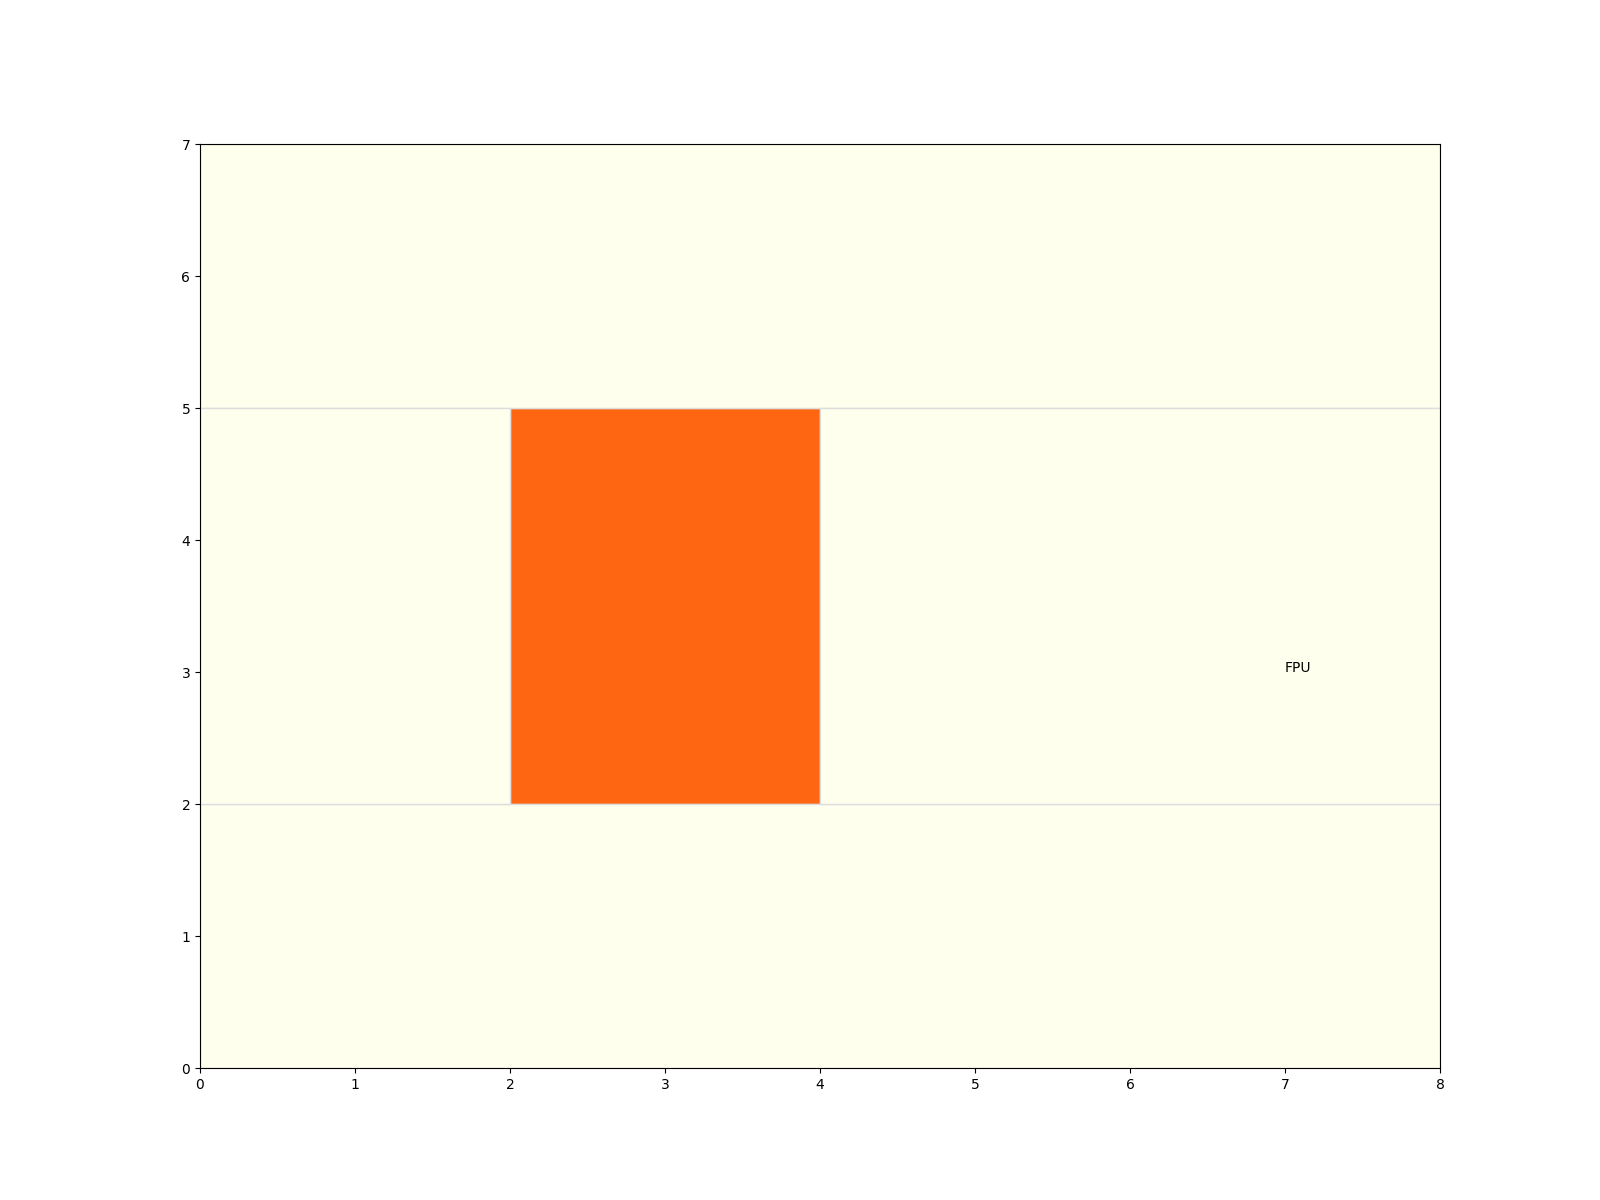
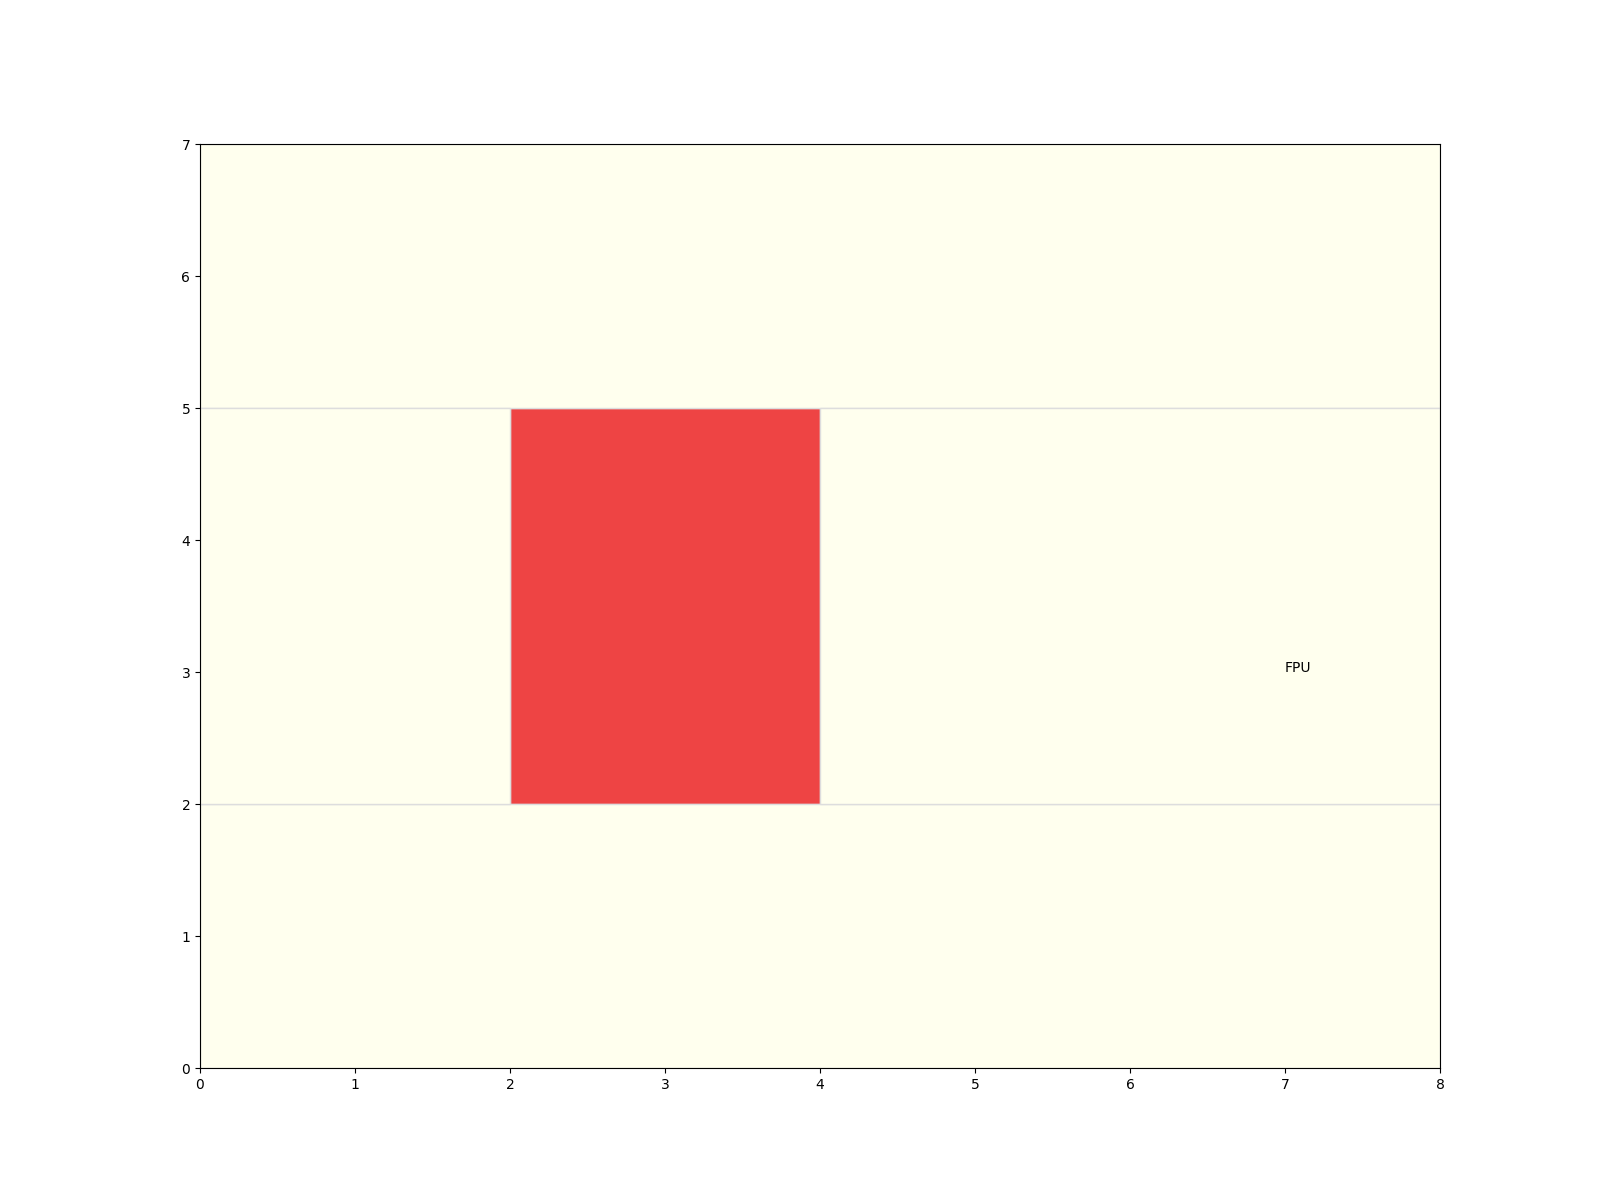
done step 1 of tile insertion

Changed region(s): [[0.3125, 0.3392, 0.5312, 0.6783]]

diff --git a/src/LFLegaliser.cpp b/src/LFLegaliser.cpp
@@ -309,8 +309,114 @@ void LFLegaliser::enumerateDirectAreaRProcess(Cord lowerleft, len_t width, len_t
 
 }
 
+bool LFLegaliser::insertTile(Tile &tile){
+    assert(!searchArea(tile.getLowerLeft(), tile.getWidth(), tile.getHeight()));
+
+    /* STEP 1) Find the space Tile containing the top edge of the aera to be occupied, process */
+    bool tileTouchesSky = (tile.getUpperRight().y == getCanvasHeight());
+    bool cleanTopCut = true;
+    Tile *origTop;
+    
+    if(!tileTouchesSky){
+        origTop = findPoint(tile.getUpperLeft());
+        cleanTopCut = (origTop->getLowerLeft().y == tile.getupperright().y);
+    } 
+    
+    if((!tileTouchesSky)&&(!cleanTopCut)){
+    
+        Tile *newDown = new Tile(tileType::BLANK, origTop->getLowerLeft(),origTop->getWidth(), (tile.getUpperLeft().y - origTop->getLowerLeft().y));
+        newDown->rt = origTop;
+        newDown->lb = origTop->lb;
+        newDown->bl = origTop->bl;
+
+        // manipulate neighbors around the split tiles
+
+        // change lower-neighbors' rt pointer to newly created tile
+        std::vector <Tile *> origDownNeighbors;
+        findDownNeighbors(origTop, origDownNeighbors);
+        for(Tile *t : origDownNeighbors){
+            if(t->rt == origTop){
+                t->rt = newDown;
+            }
+        }
+        
+        // change right neighbors to pointer their bl to the correct tile (one of the split)
+        std::vector <Tile *> origRightNeighbors;
+        findRightNeighbors(origTop, origRightNeighbors);
+        
+        bool rightModified = false;
+        for(int i = 0; i < origRightNeighbors.size(); ++i){
+            if(origRightNeighbors[i]->getLowerLeft().y < newDown->getUpperRight().y){
+                if(!rightModified){
+                    rightModified = true;
+                    newDown->tr = origRightNeighbors[i];
+                }
+                origRightNeighbors[i]->bl = newDown;
+                
+            }
+        }
+        assert(rightModified);
+
+        // change Left neighbors to point their tr to the correct tiles
+        std::vector <Tile *> origLeftNeighbors;
+        findLeftNeighbors(origTop, origLeftNeighbors);
+
+        bool leftModified = false;
+        for(int i = 0; i < origLeftNeighbors.size(); ++i){
+            if(origLeftNeighbors[i]->getUpperLeft().y > tile.getUpperLeft().y){
+                if(!leftModified){
+                    leftModified = true;
+                    origTop->bl = origLeftNeighbors[i];
+                }
+            }else{
+                origLeftNeighbors[i]->tr = newDown;
+            }
+        }
+        assert(leftModified);
+
+        origTop->setCord((origTop->getLowerLeft().x, tile.getUpperLeft().y));
+        origTop->setHeight = (origTop->getUpperLeft().y - tile.getUpperLeft().y)
+    }
+
+    /* STEP 2) Find the space Tile containing the bottom edge of the aera to be occupied, process */
+
+    bool tileTouchesGround = (tile.getLowerLeft().y == 0);
+    bool cleanBottomCut = true;
+    Tile *origBottom;
+    if(!tileTouchesGround){
+        origBottom = findPoint(tile.getLowerLeft() - Cord(0,1));
+        cleanBottomcut = (origBottom->getUpperRight().y == tile.getLowerLeft().y)
+    }
+
+    if((!tileTouchesGround) && (!cleanBottomCut)){
+        
+        tile *newUp = new Tile(tileType::BLANK, Cord(origBottom->getLowerLeft().x, tile.getLowerLeft().y)
+                                , origBottom->getWidth(), (origBottom->getUpperLeft().y - tile.getLowerLeft().y));         
+        
+        newUp->rt = origBottom->rt;
+        newUp->lb = origBottom;
+        newUp->tr = origBottom->tr;
+
+        // manipulate neighbors around the split tiles
+
+        // change the upper-neighbors' lb pointer to newly created tile
+        std::vector <Tile *> origUpNeighbors;
+        findTopNeighbors(origBottom, origUpNeighbors);
+        for(Tile *t : origUpNeighbors){
+            if(t->lb == origBottom){
+                t->lb = newUp;
+            }
+        }
+
+        // change 
+        //TODO: adjust right & left neighbors's pointer
 
 
+
+    }
+
+
+}
 
 void LFLegaliser::visualiseArtpiece(const std::string outputFileName) {
     

diff --git a/src/LFLegaliser.h b/src/LFLegaliser.h
@@ -42,7 +42,7 @@ public:
 
     int addFirstTessera(tesseraType type, std::string name, area_t area, Cord lowerleft, len_t width, len_t height);
 
-    /* 5 functions proposed in the paper */
+    /* Functions proposed in the paper */
 
     // Returns the Tile that includes the Cord "key"
     Tile *findPoint(const Cord &key) const;
@@ -60,11 +60,12 @@ public:
     // Clone of searchArea, no "target" is returned
     bool searchArea(Cord lowerleft, len_t width, len_t height) const;
     
-    // Enumerates all tiles in a given area, each tile is visited(pushed into vector) only after all the tiles avove & to
+    // Enumerates all tiles in a given area, each tile is visited(pushed into vector) only after all the tiles above and to
     // its left is visited
     void enumerateDirectArea(Cord lowerleft, len_t width, len_t height, std::vector <Tile *> &allTiles) const;
     
-    // createTile
+    // pushes 
+    bool insertTile(Tile &tile);
 
     // deleteTile (Don't need)
     void visualiseArtpiece(const std::string outputFileName);

diff --git a/draw_tile_layout.py b/draw_tile_layout.py
@@ -20,7 +20,7 @@ def draw_block(ax, x, y, width, height, color = "#FFF", aplha = 1.0):
         )
     )
 
-used_color = ["#FFE", "#FFF"]
+used_color = ["#FFE", "#FFF", "#F00"]
 
 
 def set_rand_color():
@@ -170,11 +170,13 @@ for connection in range(total_connection_number):
     i += 1
 
 
-# while i < len(f):
-#     ss = f[i].split(" ")
-#     (bx, by, bw, bh) = (float(ss[0]), float(ss[1]), float(ss[2]), float(ss[3]))
-#     draw_block(ax, bx, by, bw, bh, color="#F00")
-#     i += 1
+while i < len(f):
+    if f[i] == "":
+        break
+    ss = f[i].split(" ")
+    (bx, by, bw, bh) = (float(ss[0]), float(ss[1]), float(ss[2]), float(ss[3]))
+    draw_block(ax, bx, by, bw, bh, color="#F00")
+    i += 1
 
 
 plt.savefig(png_name)

diff --git a/src/Tile.cpp b/src/Tile.cpp
@@ -37,6 +37,10 @@ len_t Tile::getHeight() const {
     return this->mHeight;
 };
 
+void Tile::setCord (Cord cord){
+    this->mLowerLeft = cord;
+}
+
 void Tile::setWidth(len_t width){
     this->mWidth = width;
 };

diff --git a/src/Tile.h b/src/Tile.h
@@ -36,6 +36,7 @@ public:
     len_t getWidth() const;
     len_t getHeight() const;
 
+    void setCord(Cord cord);
     void setWidth(len_t width);
     void setHeight(len_t height);
     
